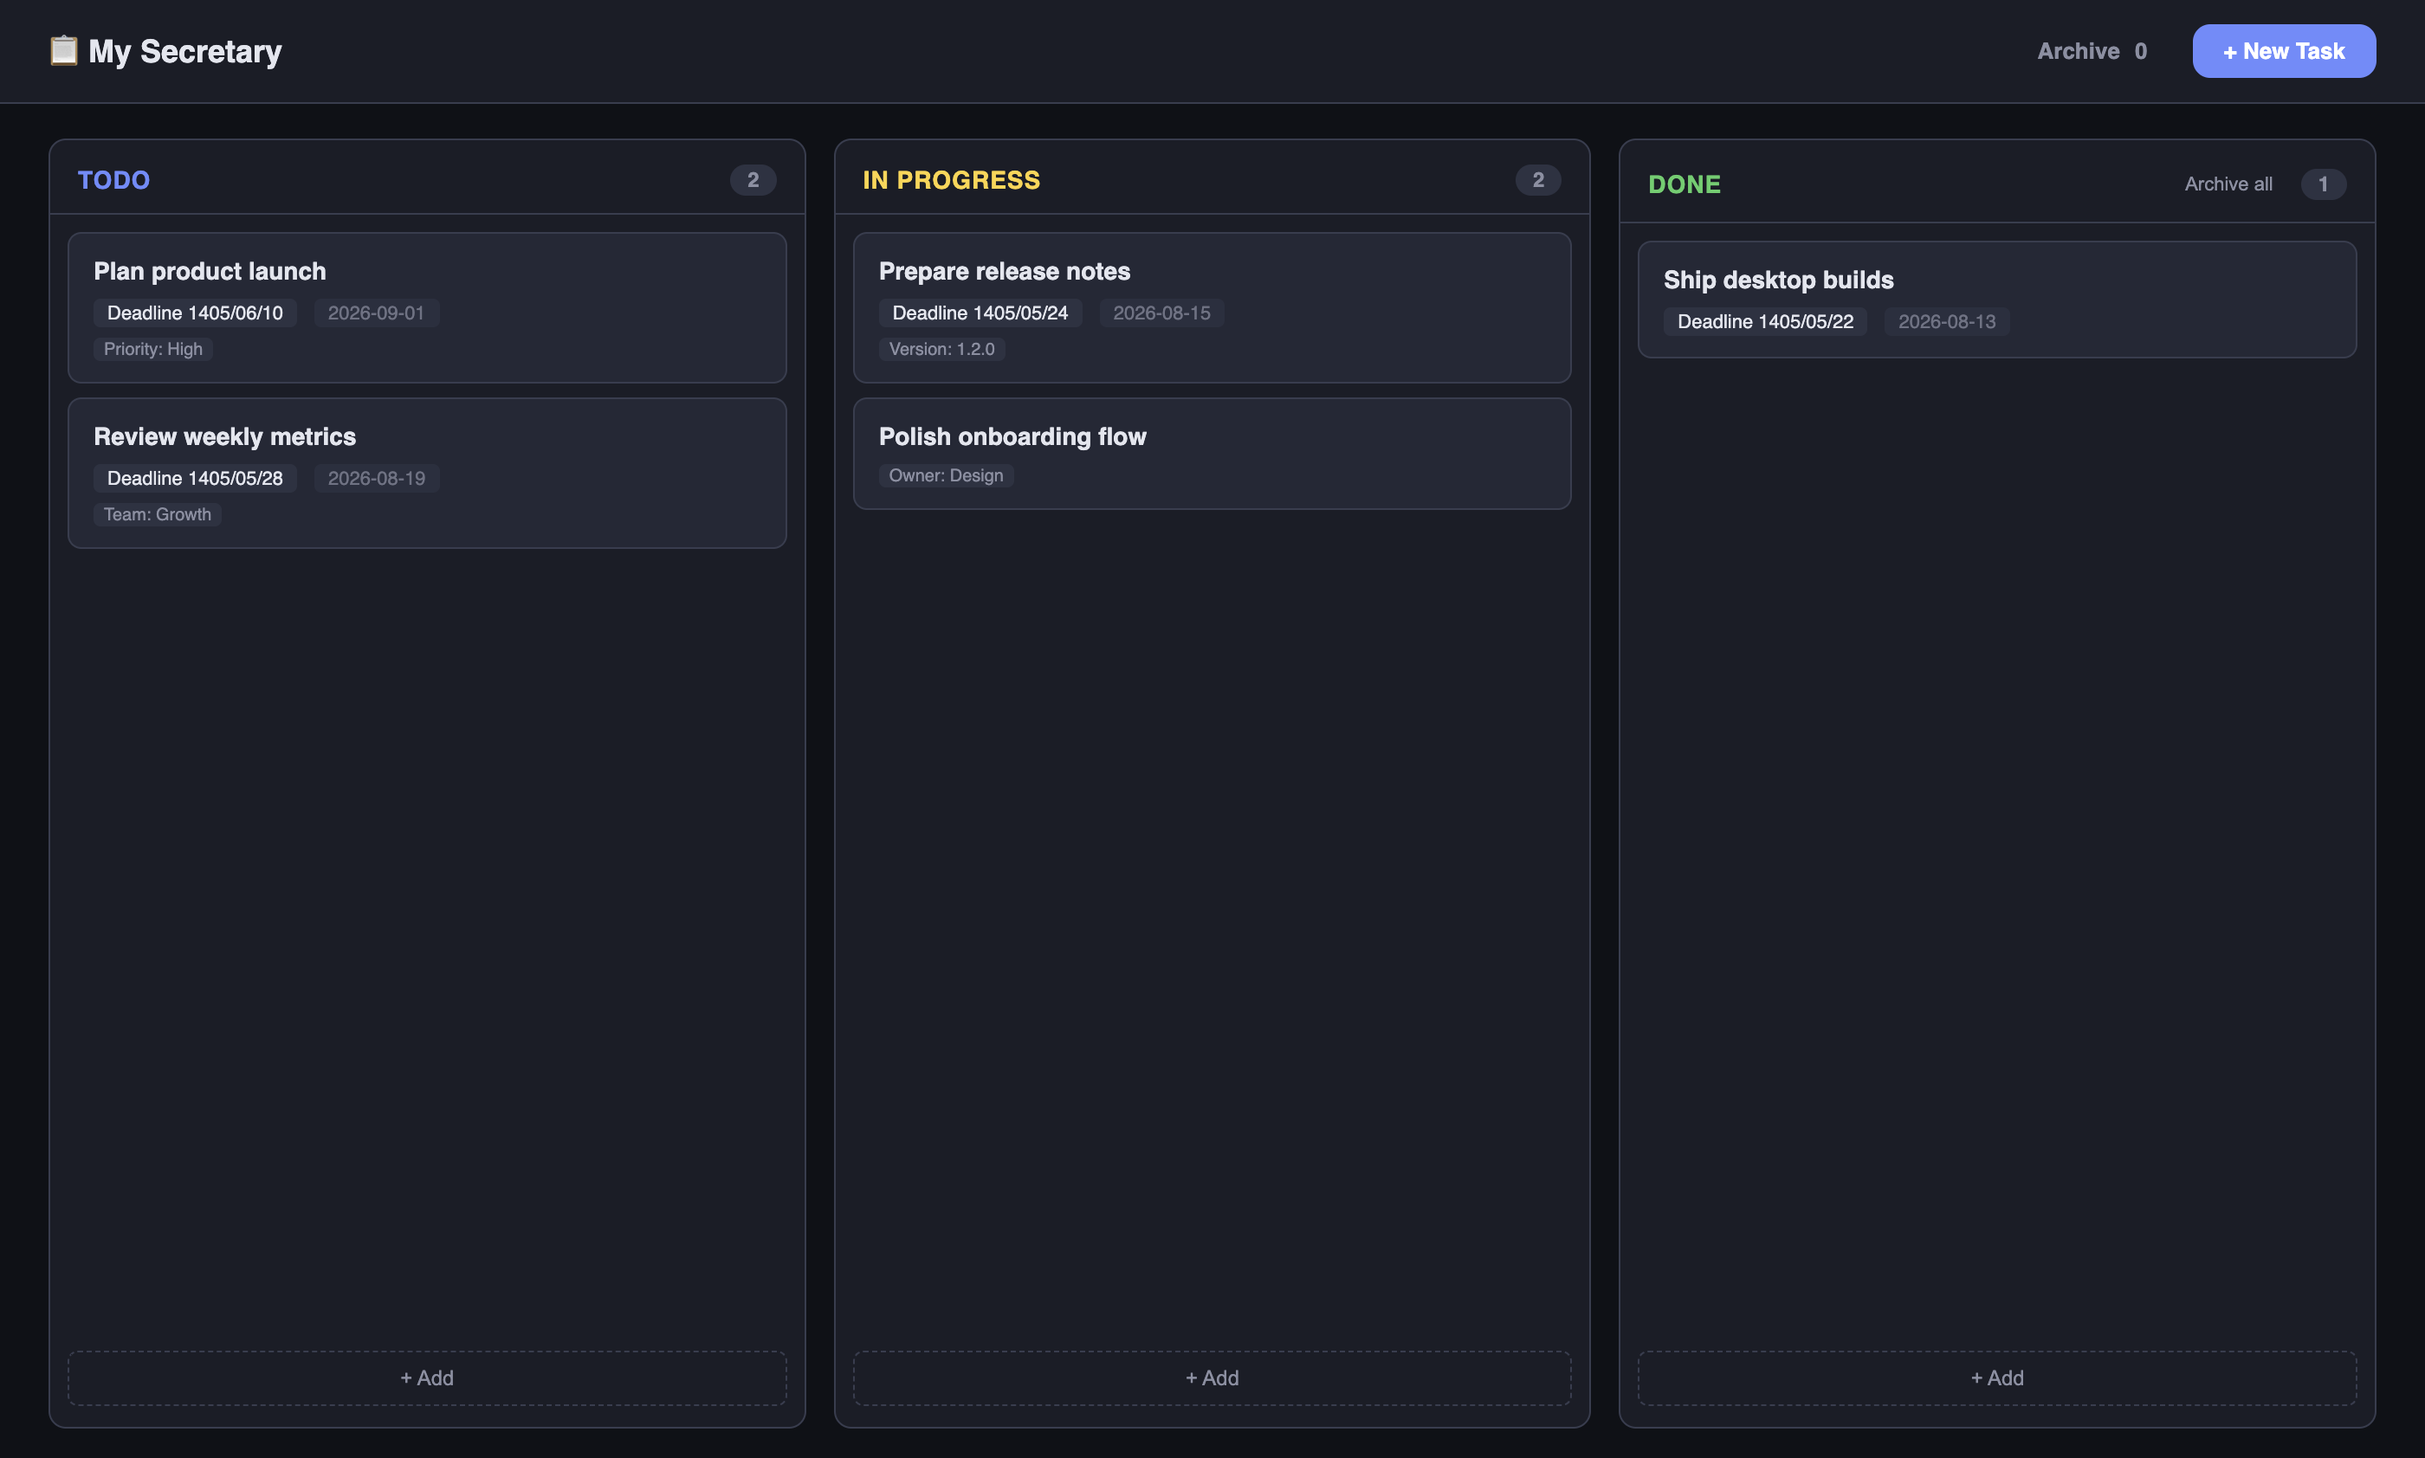
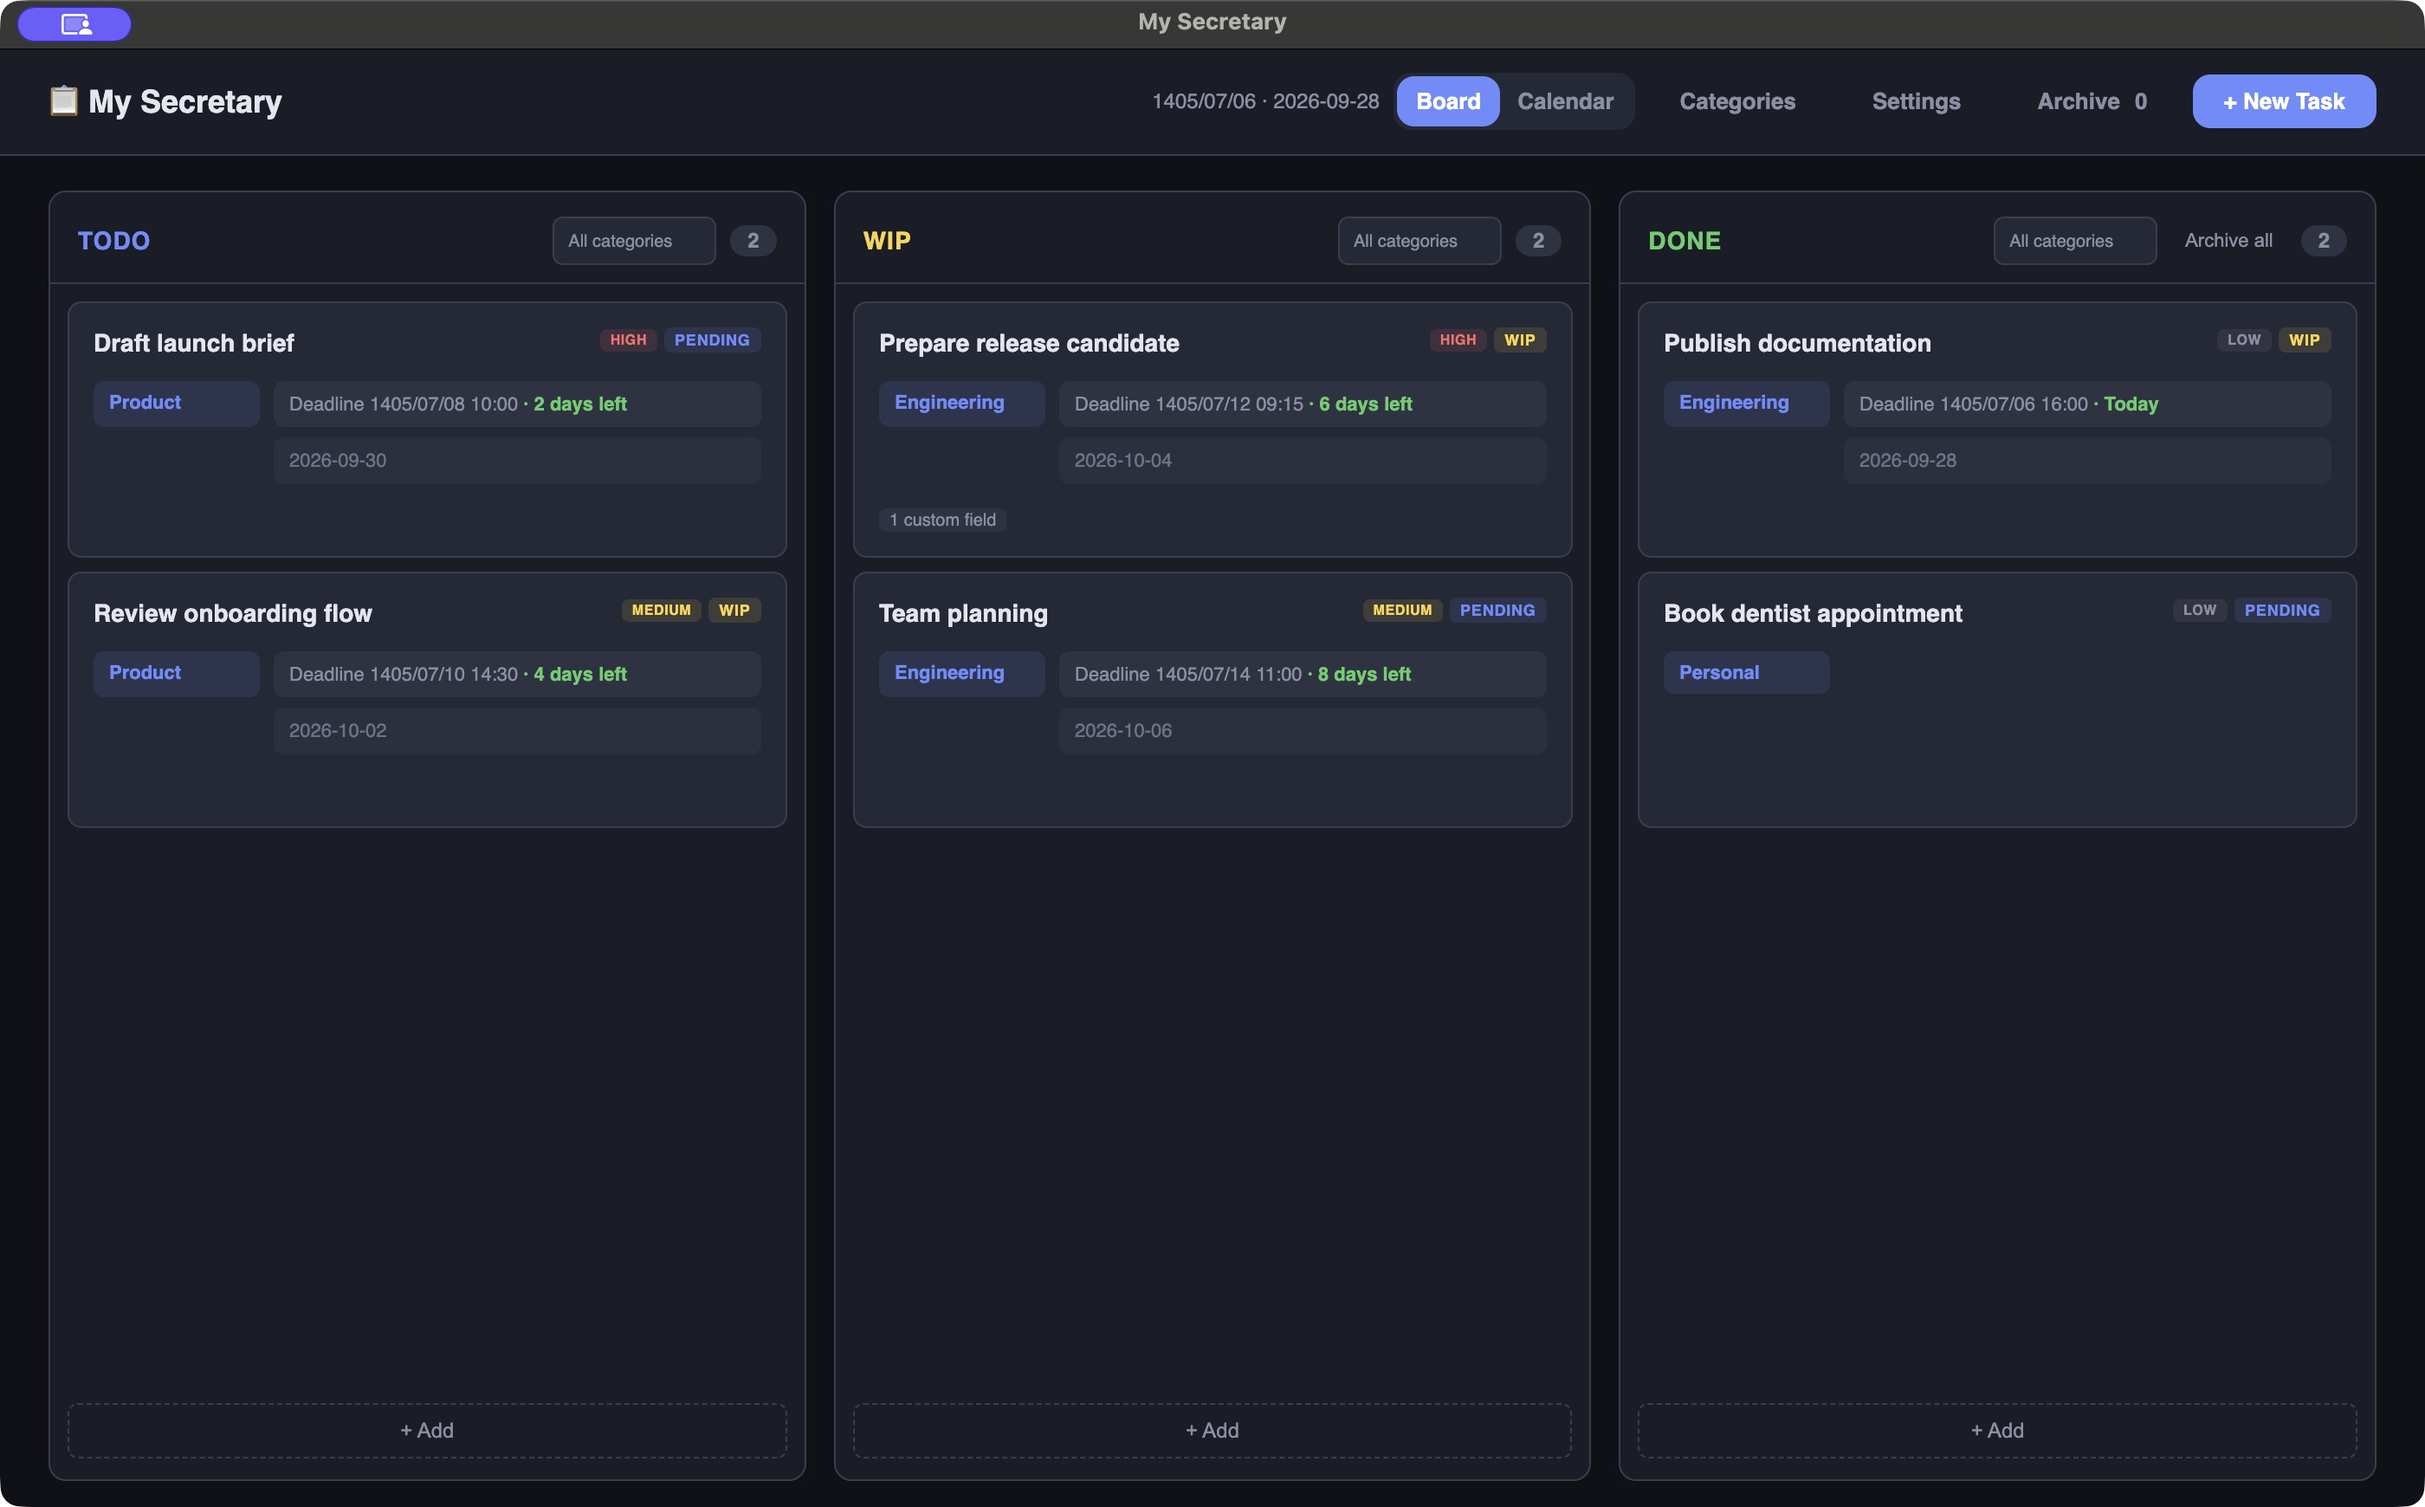
docs: refresh README screenshots

diff --git a/README.md b/README.md
@@ -1,12 +1,16 @@
 # My Secretary
 
-My Secretary is a lightweight desktop task manager with a Kanban-style board. It runs locally on macOS and Windows and stores your tasks on your own computer.
+My Secretary is a lightweight desktop task manager with Kanban and Shamsi calendar views. It runs locally on macOS and Windows and stores your tasks on your own computer.
 
 ## Screenshots
 
 ### Kanban board
 
 ![My Secretary Kanban board](docs/screenshots/board.png)
+
+### Shamsi calendar
+
+![My Secretary Shamsi calendar with task deadlines](docs/screenshots/calendar.png)
 
 ### Task editor
 
@@ -24,14 +28,18 @@ My Secretary is a lightweight desktop task manager with a Kanban-style board. It
 - Manual **Save draft** and **Revert draft** actions
 - One-click archiving of all completed tasks
 - Archive viewer with individual **Restore to Done** actions
-- Optional Shamsi deadlines with automatic Gregorian date conversion
-- Full Shamsi calendar with secondary Gregorian dates, task deadlines, and an optional ICS feed refreshed every 5 minutes
-- Optional task times and native reminders five minutes before timed tasks and calendar events
+- Current Shamsi and Gregorian date in the app header
+- Optional Shamsi deadlines and task times with automatic Gregorian date conversion
+- Full Shamsi calendar with secondary Gregorian dates and task deadlines
+- Optional ICS calendar feed with automatic five-minute refresh and a manual **Refresh** action
+- Calendar event details with date, time, location, description, and automatic RTL layout for Persian descriptions
+- Native reminders five minutes before timed tasks and calendar events
 - Daily 11:00 native notifications for active tasks due the next day while the app is open
 - Optional task categories with category management and per-column filtering
 - Markdown task descriptions with formatting and preview
 - Custom fields for additional task information
 - Creation and update timestamps
+- Automatic startup update check plus a manual **Check for updates** action in Settings
 - Local SQLite storage—your task database is not included in releases or uploaded to this repository
 
 ## Download
